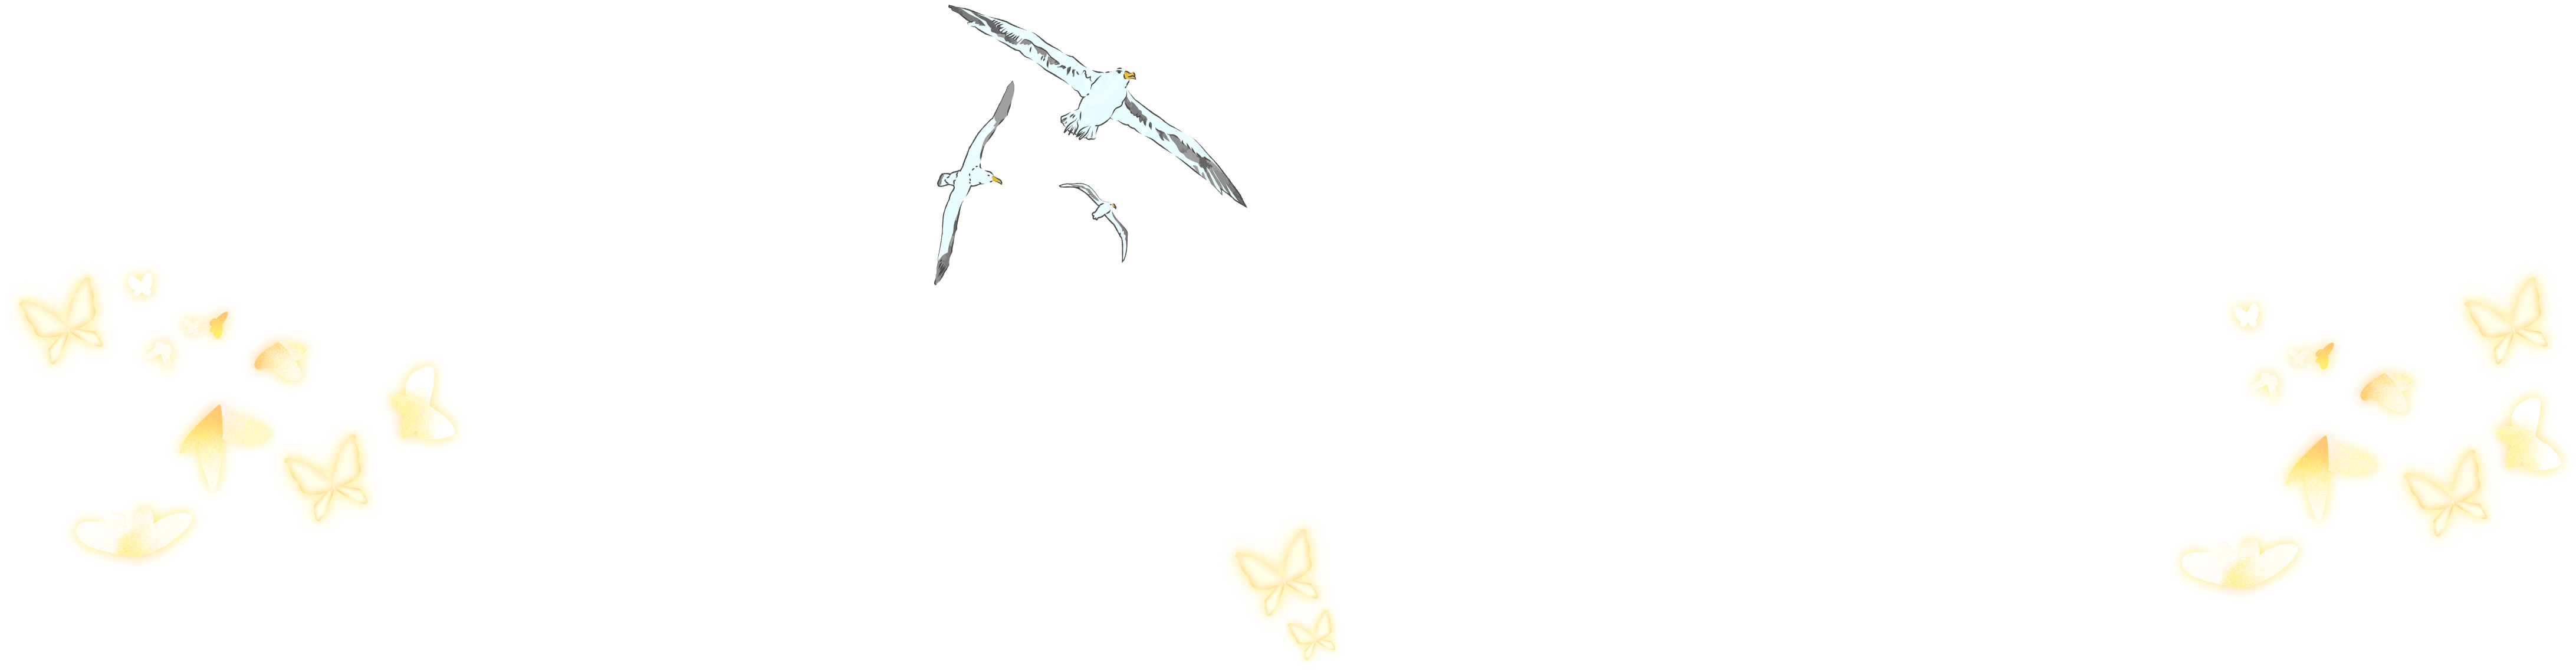
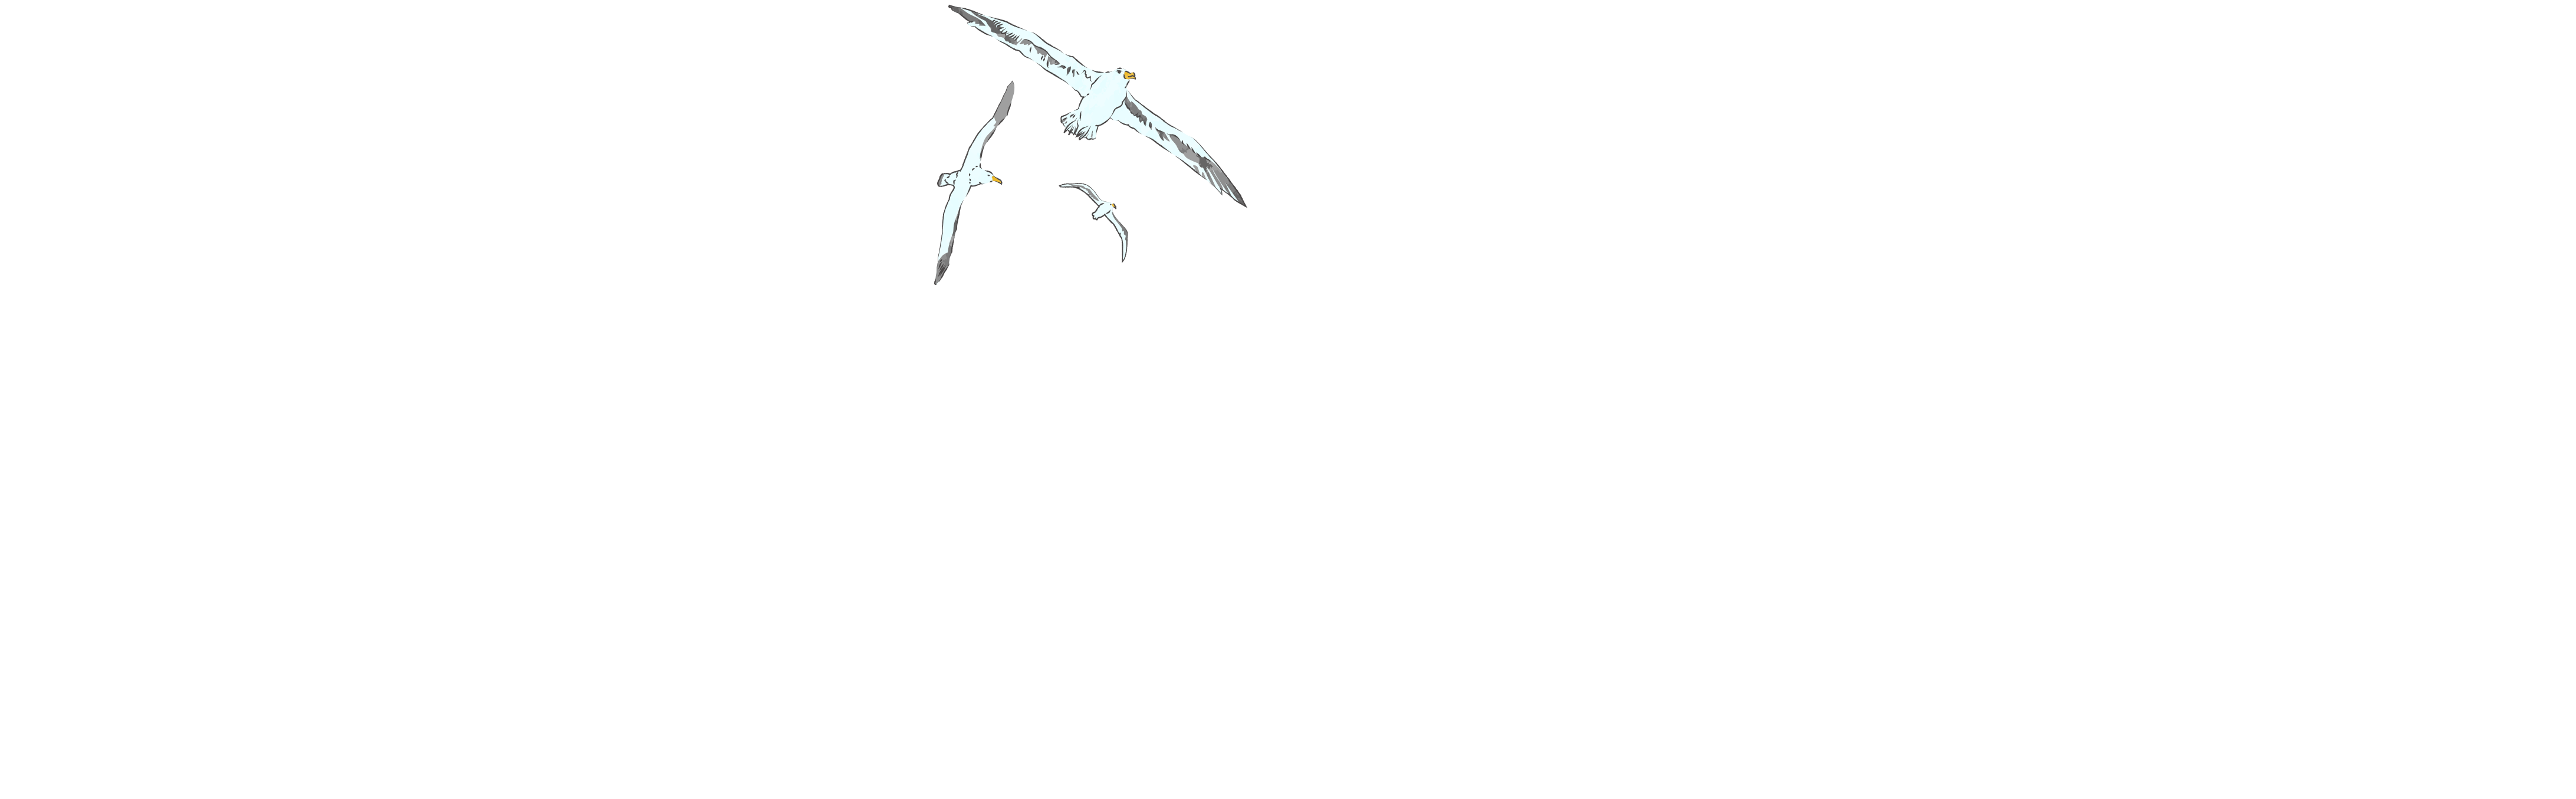
Landing page and overall structured improved

diff --git a/src/styles/global.css b/src/styles/global.css
@@ -6,13 +6,14 @@
 @theme {
   --color-bg: oklch(0.99 0.005 250);
   --color-fg: oklch(0.22 0.02 250);
-  --color-accent: oklch(0.62 0.16 280);
-  --color-accent-hover: oklch(0.55 0.16 280);
+  --color-accent: #87CEEB;
+  --color-accent-hover: #5FB8DC;
   --color-muted: oklch(0.55 0.02 250);
   --color-surface: oklch(0.97 0.005 250);
   --color-border: oklch(0.9 0.005 250);
-  --font-sans: "Inter", ui-sans-serif, system-ui, sans-serif;
-  --font-display: "Sora", "Inter", sans-serif;
+  /* Swap typefaces here + the matching `fonts` entry in astro.config.mjs */
+  --font-sans: var(--font-instrument-sans), ui-sans-serif, system-ui, sans-serif;
+  --font-display: var(--font-cutive), "Sora", sans-serif;
 }
 
 .dark {